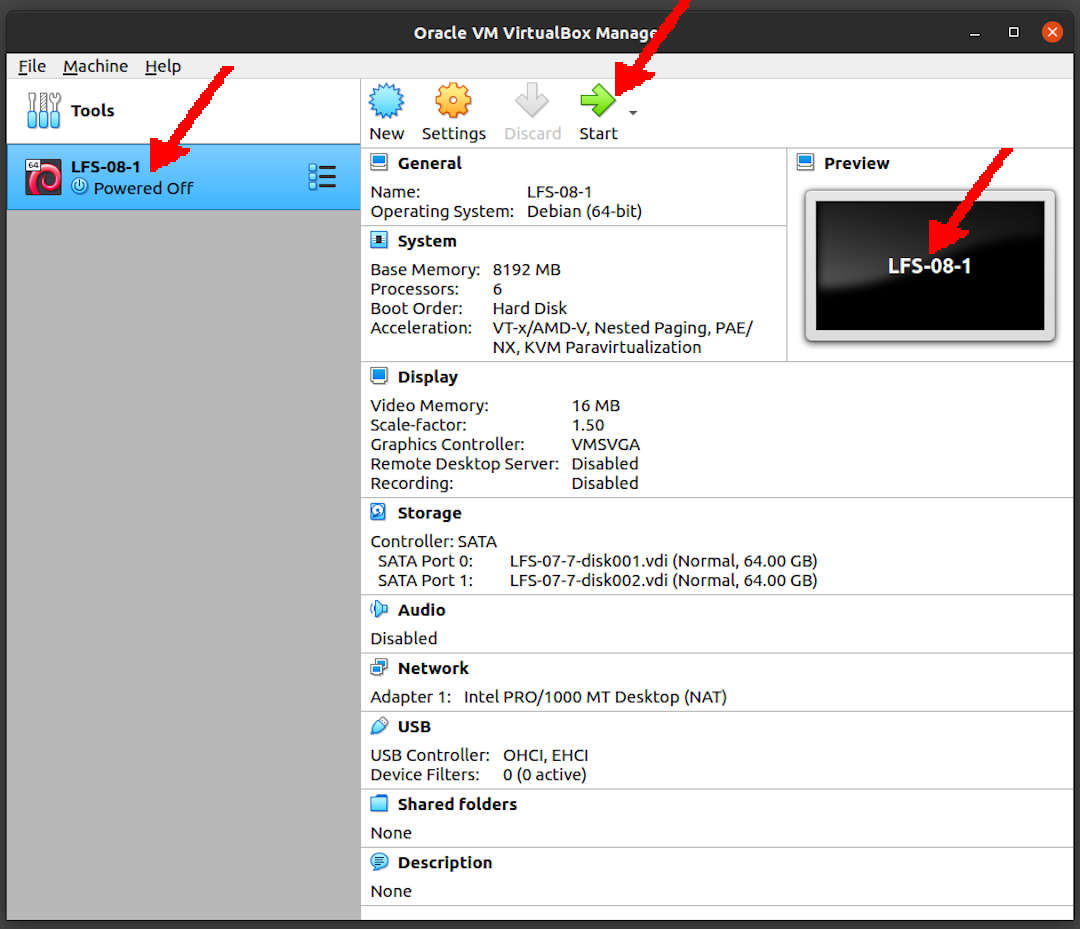
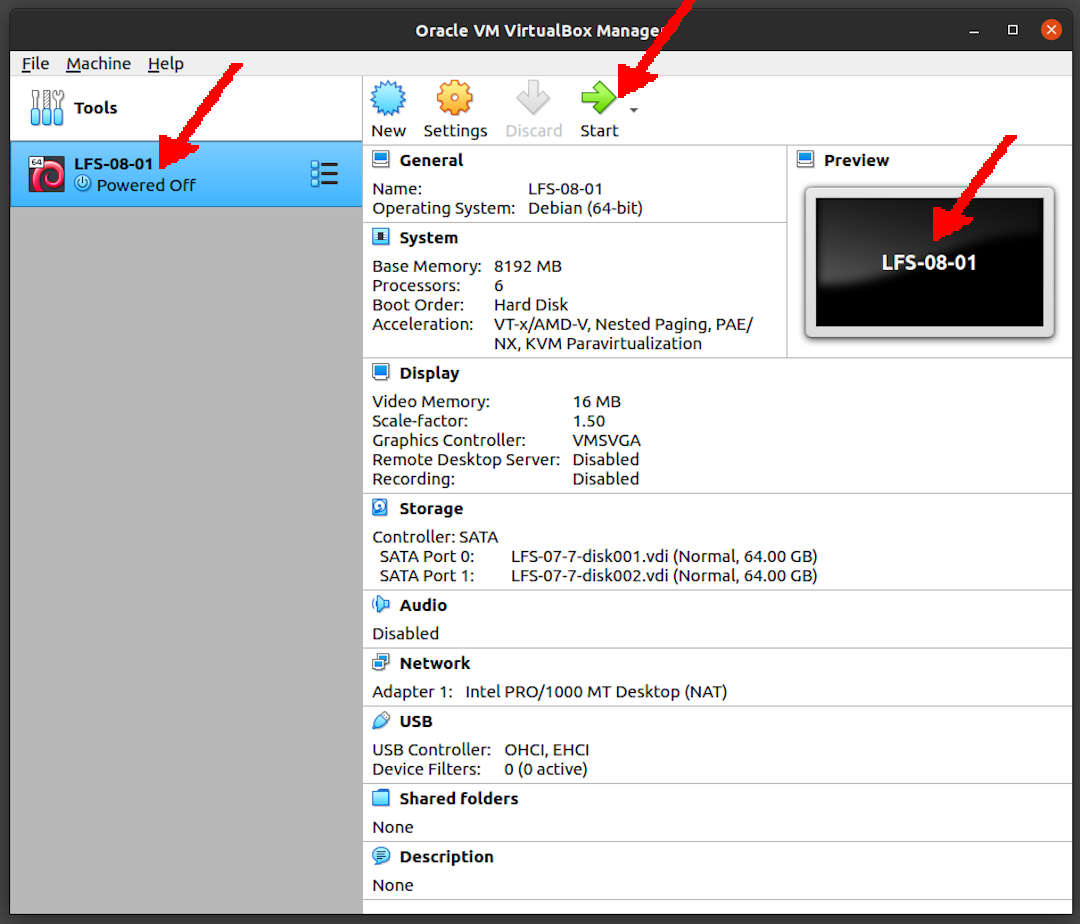
new file:   LFS-08-01.md LFS-08-18.md

Changed region(s): [[0.0, 0.0, 1.0, 1.0]]

diff --git a/LFS-08-18.md b/LFS-08-18.md
@@ -7,15 +7,15 @@
 [GITHUB](https://github.com/OSP4DISS/lfs/)
 [TOP](#)
 [BOTTOM](#endofpage)
-[PREV](LFS-07-7.md)
-[NEXT](LFS-08-40.md)
+[PREV](LFS-08-01.md)
+[NEXT](LFS-08-18.md)
 
 <br>
-# LFS: Chapter 8 part 1 - 39
+# LFS: Chapter 8 part 18 -
 
-## Virtual Box Guest LFS-08-1
+## Virtual Box Guest LFS-08-18
 
-* Import LFS-07-7.ova, rename to LFS-08-1
+* Import LFS-08-01.ova, rename to LFS-08-18
 
 <br>
 <img src="pictures/L101-011.jpg" width="960">
@@ -905,7 +905,7 @@ poweroff
 
 * Back to "pamulang1" host
 
-* Export LFS-08-1.OVA (backup)
+* Export LFS-08-18.OVA (backup)
 
 <br>
 #### ENDOFPAGE
@@ -915,7 +915,7 @@ poweroff
 [GITHUB](https://github.com/OSP4DISS/lfs/)
 [TOP](#)
 [BOTTOM](#endofpage)
-[PREV](LFS-07-7.md)
-[NEXT](LFS-08-40.md)
+[PREV](LFS-08-01.md)
+[NEXT](LFS-08-18.md)
 <br>
 

diff --git a/LFS-08-01.md b/LFS-08-01.md
@@ -8,14 +8,14 @@
 [TOP](#)
 [BOTTOM](#endofpage)
 [PREV](LFS-07-7.md)
-[NEXT](LFS-08-40.md)
+[NEXT](LFS-08-18.md)
 
 <br>
-# LFS: Chapter 8 part 1 - 39
+# LFS: Chapter 8 part 1 - 17
 
-## Virtual Box Guest LFS-08-1
+## Virtual Box Guest LFS-08-01
 
-* Import LFS-07-7.ova, rename to LFS-08-1
+* Import LFS-07-7.ova, rename to LFS-08-01
 
 <br>
 <img src="pictures/L101-011.jpg" width="960">
@@ -905,7 +905,7 @@ poweroff
 
 * Back to "pamulang1" host
 
-* Export LFS-08-1.OVA (backup)
+* Export LFS-08-01.OVA (backup)
 
 <br>
 #### ENDOFPAGE
@@ -916,6 +916,6 @@ poweroff
 [TOP](#)
 [BOTTOM](#endofpage)
 [PREV](LFS-07-7.md)
-[NEXT](LFS-08-40.md)
+[NEXT](LFS-08-18.md)
 <br>
 

diff --git a/index.md b/index.md
@@ -46,7 +46,8 @@
 * [LFS: Chapter 7 part 1 - 2](LFS-07-1.md)
 * [LFS: Chapter 7 part 5 - 6](LFS-07-5.md)
 * [LFS: Chapter 7 part 7 - 14](LFS-07-7.md)
-* [LFS: Chapter 8 part 1 - 39](LFS-08-1.md)
+* [LFS: Chapter 8 part 1  - 17](LFS-08-01.md)
+* [LFS: Chapter 8 part 18 -   ](LFS-08-18.md)
 * [LFS: Chapter 8 part 40 - 78](LFS-08-40.md)
 
 <br>

diff --git a/LFS-07-7.md b/LFS-07-7.md
@@ -8,7 +8,7 @@
 [TOP](#)
 [BOTTOM](#endofpage)
 [PREV](LFS-07-5.md)
-[NEXT](LFS-08-1.md)
+[NEXT](LFS-08-01.md)
 
 <br>
 # LFS: Chapter 7 part 7 - 14
@@ -354,6 +354,6 @@ poweroff
 [TOP](#)
 [BOTTOM](#endofpage)
 [PREV](LFS-07-5.md)
-[NEXT](LFS-08-1.md)
+[NEXT](LFS-08-01.md)
 <br>
 
